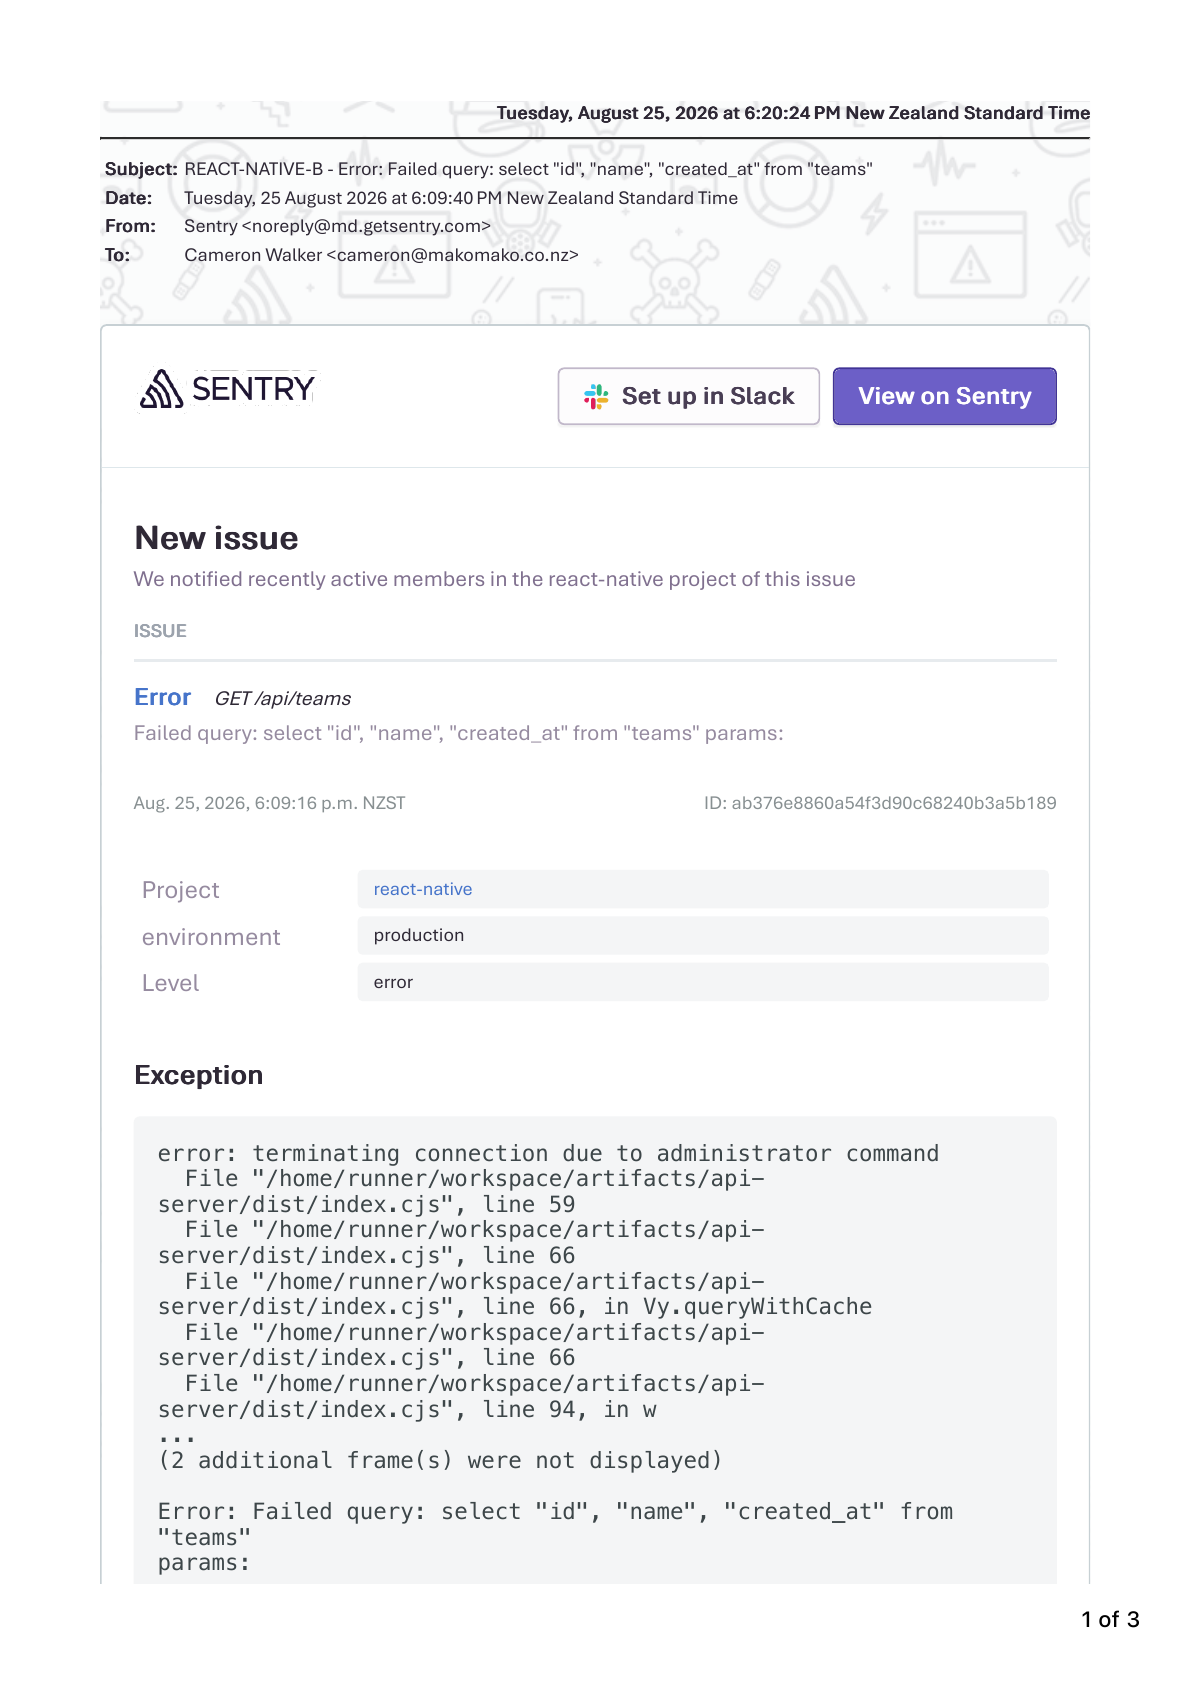
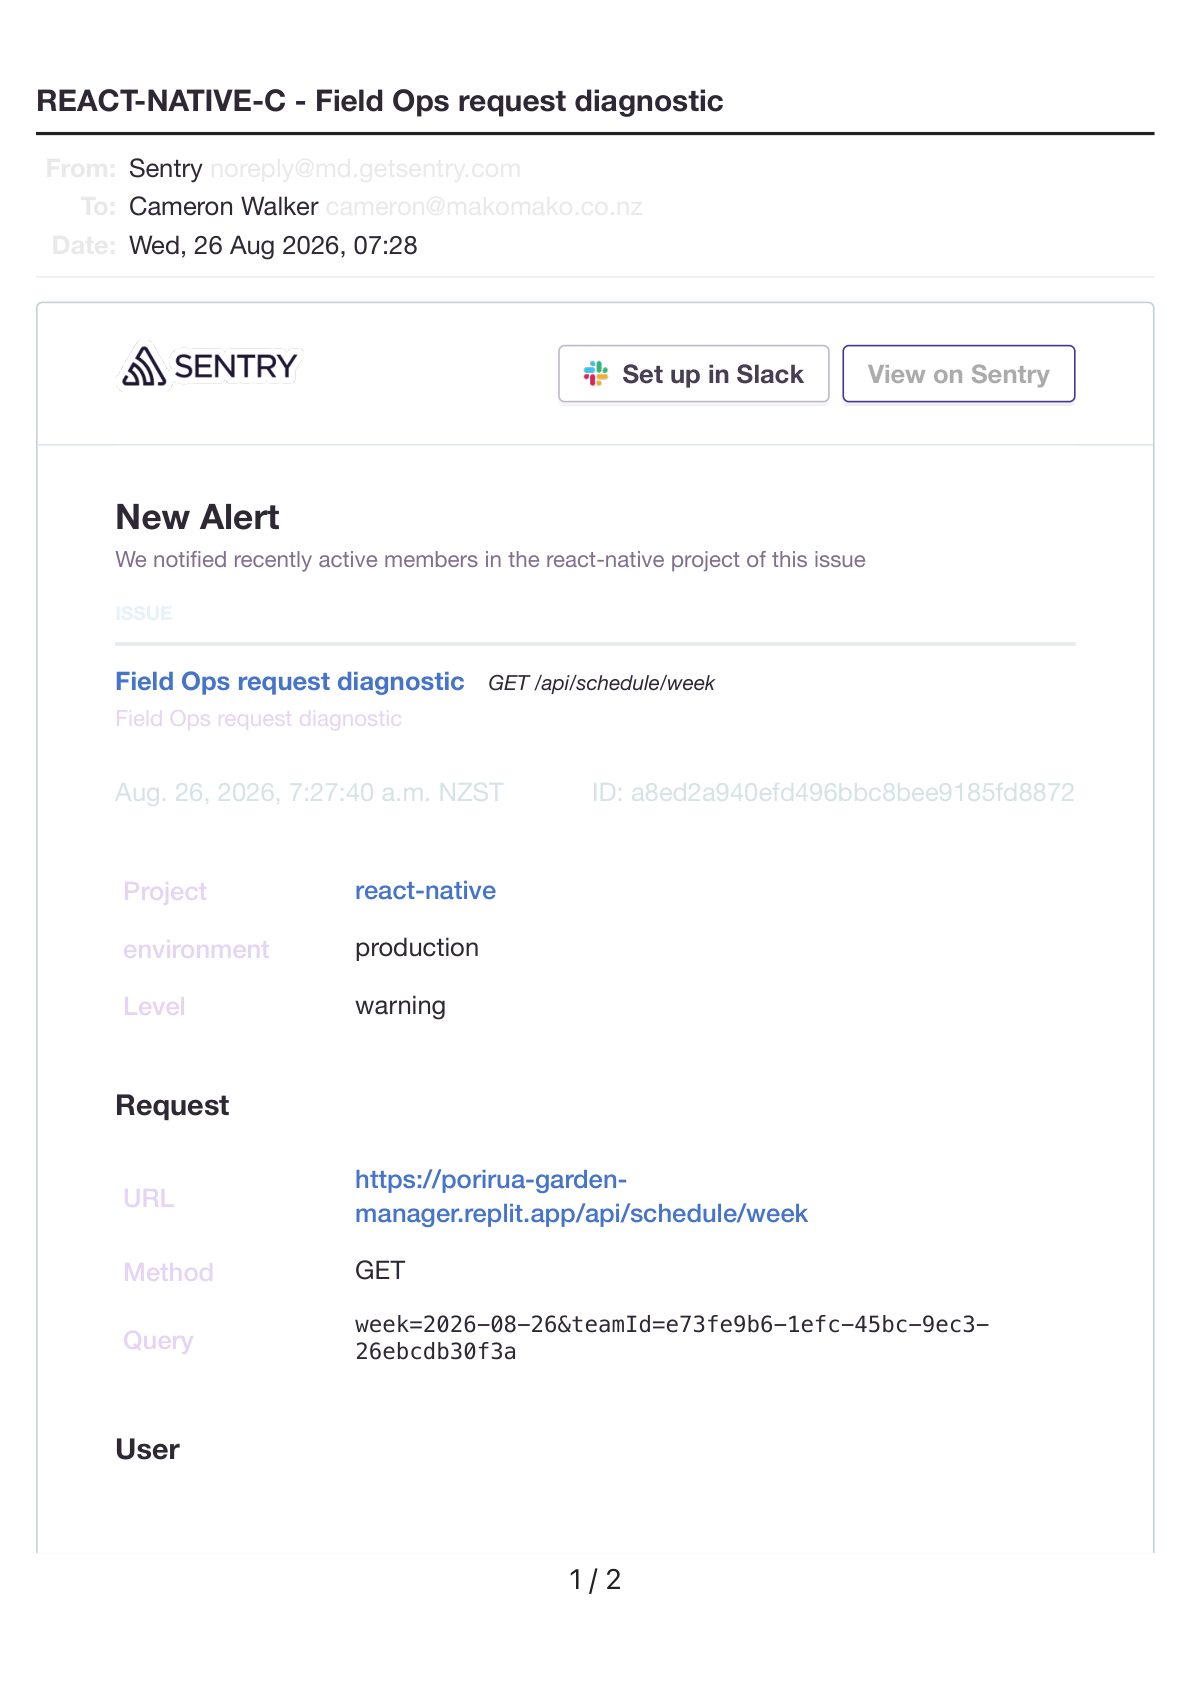
Update PDF rendering logic and add supporting assets and tests
Replit-Commit-Author: Agent

diff --git a/artifacts/field-ops/lib/__tests__/diagnostics.test.ts b/artifacts/field-ops/lib/__tests__/diagnostics.test.ts
@@ -178,7 +178,7 @@ describe("Field Ops request diagnostics", () => {
     const diagnostics: unknown[] = [];
     setRequestDiagnosticHandler(diagnostic => diagnostics.push(diagnostic));
     let attempts = 0;
-    vi.spyOn(globalThis, "fetch").mockImplementation(async () => {
+    const fetchMock = vi.spyOn(globalThis, "fetch").mockImplementation(async () => {
       attempts += 1;
       if (attempts === 1) return new Response("expired", { status: 401 });
       if (attempts === 2) return new Response(null, { status: 200 });
@@ -203,5 +203,13 @@ describe("Field Ops request diagnostics", () => {
     const json = JSON.stringify(diagnostics[0]);
     expect(json).not.toContain("opaque-token");
     expect(json).not.toContain("private");
+    expect(fetchMock.mock.calls[0][1]).toMatchObject({
+      credentials: "omit",
+      headers: expect.objectContaining({ authorization: "Bearer opaque-token" }),
+    });
+    expect(fetchMock.mock.calls[2][1]).toMatchObject({
+      credentials: "include",
+    });
+    expect((fetchMock.mock.calls[2][1] as RequestInit).headers).not.toHaveProperty("authorization");
   });
 });

diff --git a/lib/api-client-react/src/custom-fetch.ts b/lib/api-client-react/src/custom-fetch.ts
@@ -370,15 +370,19 @@ export async function customFetch<T = unknown>(
   }
 
   let authToken: string | null = null;
-  if (_authTokenGetter) {
+  if (_authTokenGetter && !_retry) {
     authToken = await Promise.resolve(_authTokenGetter());
   }
   if (authToken) {
     headers.set("authorization", `Bearer ${authToken}`);
+  } else if (_retry) {
+    // The refresh endpoint rotates the httpOnly cookie session. Do not resend
+    // the stale bearer token that caused the 401, or the retry will fail again.
+    headers.delete("authorization");
   }
 
   const requestInfo = { method, url: resolvedUrl };
-  const credentials = authToken ? ("omit" as const) : ("include" as const);
+  const credentials = _retry || !authToken ? ("include" as const) : ("omit" as const);
 
   const startedAt = performance.now();
   let response: Response;

diff --git a/.agents/scripts/render_sentry_pdf.py b/.agents/scripts/render_sentry_pdf.py
@@ -1,14 +1,13 @@
 import fitz
 from pathlib import Path
-
-pdf = Path("attached_assets/REACT-NATIVE-B_-_Error:_Failed_query:_select_\"id\",_\"name\",_\"cr_1787638852788.pdf")
-out = Path(".agents/outputs/sentry-pdf")
+src = Path('attached_assets/Outlook_1787687106128.pdf')
+out = Path('.agents/outputs/sentry-pdf')
 out.mkdir(parents=True, exist_ok=True)
-doc = fitz.open(pdf)
-print("pages", doc.page_count)
-for number, page in enumerate(doc, 1):
+doc = fitz.open(src)
+print('pages', doc.page_count)
+print('metadata', doc.metadata)
+for i, page in enumerate(doc):
     pix = page.get_pixmap(matrix=fitz.Matrix(2, 2), alpha=False)
-    path = out / f"page-{number}.png"
+    path = out / f'page-{i+1}.png'
     pix.save(path)
-    print(path)
-    print(page.get_text()[:4000])
+    print(path, page.rect)
